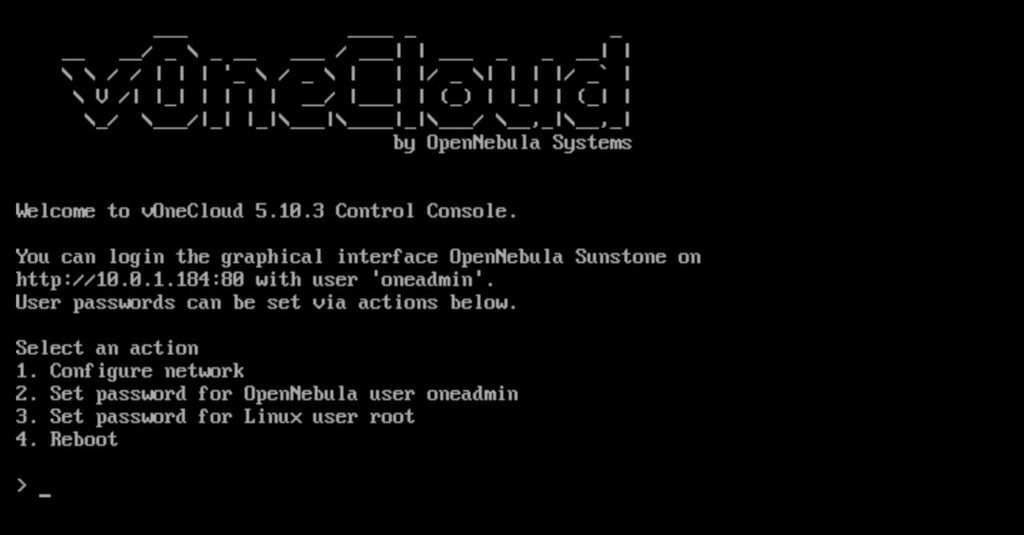
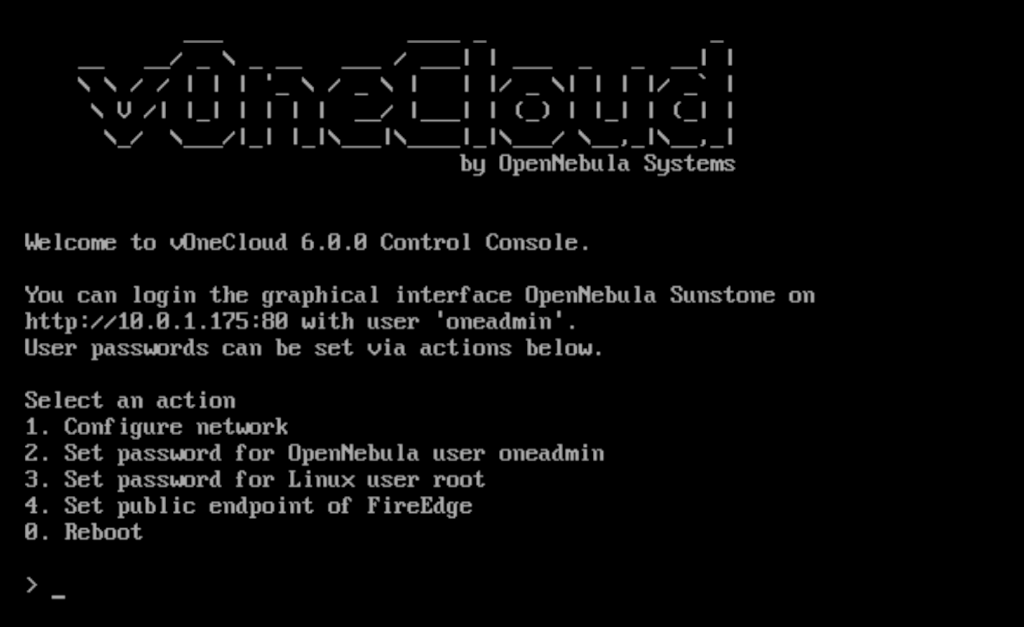
M #-: Updates to vOneCloud 6.0

diff --git a/source/quick_start/deployment_basics/try_opennebula_on_vmware.rst b/source/quick_start/deployment_basics/try_opennebula_on_vmware.rst
@@ -156,9 +156,14 @@ The second action needed is to set the **oneadmin account password**. You will n
 
 .. _advanced_login:
 
-AS a last step you need to define a **root password.** You won't be using this very often, so write it down somewhere safe. It's your master password to the appliance.
+In the third step, you need to define a **root password.** You won't be using this very often, so write it down somewhere safe. It's your master password to the appliance.
 
 This password can be used to access the OpenNebula command line interface, for that you need to ssh to vOneCloud using the `root` account and password. In OS X and Linux environments, simply use `ssh` to log into the root account of vOneCloud's IP. For Windows environments you can use software like `PuTTY <http://www.chiark.greenend.org.uk/~sgtatham/putty/download.html>`__ or even SFTP clients like `WinSCP <https://winscp.net/>`__. Alternatively, open the console of the vOneCloud VM in vCenter and change the tty (Ctrl + Alt + F2).
+
+As the last step, you need to configure a public-facing address that will be used to access your vOneCloud instance by end-users. This address is used by Sunstone interface to redirect to different service FireEdge running within the vOneCloud instance. Enter the fully qualified domain name, hostname valid within your network, or the IP address.
+
+.. image:: /images/control-console-fe-endpoint.png
+    :align: center
 
 Step 3. Enjoy the Out-of-the-Box Features
 --------------------------------------------------------------------------------
@@ -166,6 +171,11 @@ Step 3. Enjoy the Out-of-the-Box Features
 After opening the Sunstone interface (``http://<appliance_ip>`` with oneadmin credentials) you are now ready to enjoy the out-of-the-box features of OpenNebula!
 
 .. image:: /images/sunstone-main.png
+    :align: center
+
+If Sunstone greets you with an error while connecting to the public FireEdge endpoint, return to Control Center in the previous step and configure a valid endpoint:
+
+.. image:: /images/sunstone-fe-error.png
     :align: center
 
 .. _import_vcenter:
